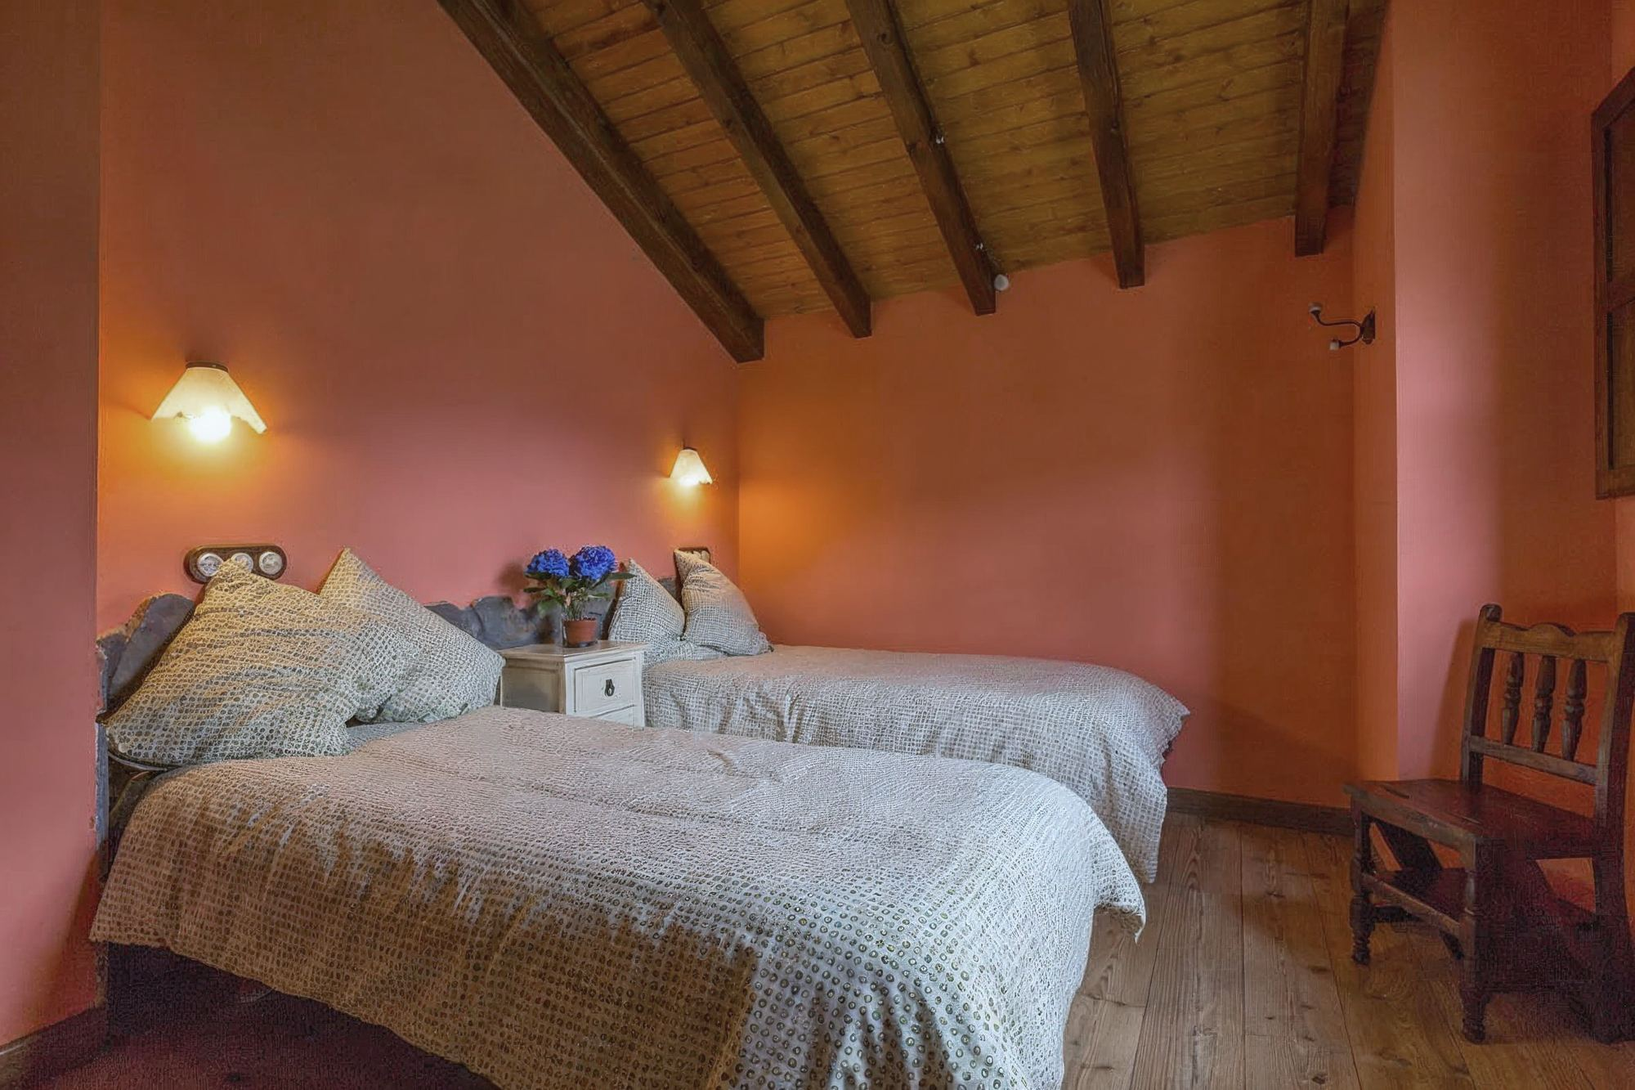
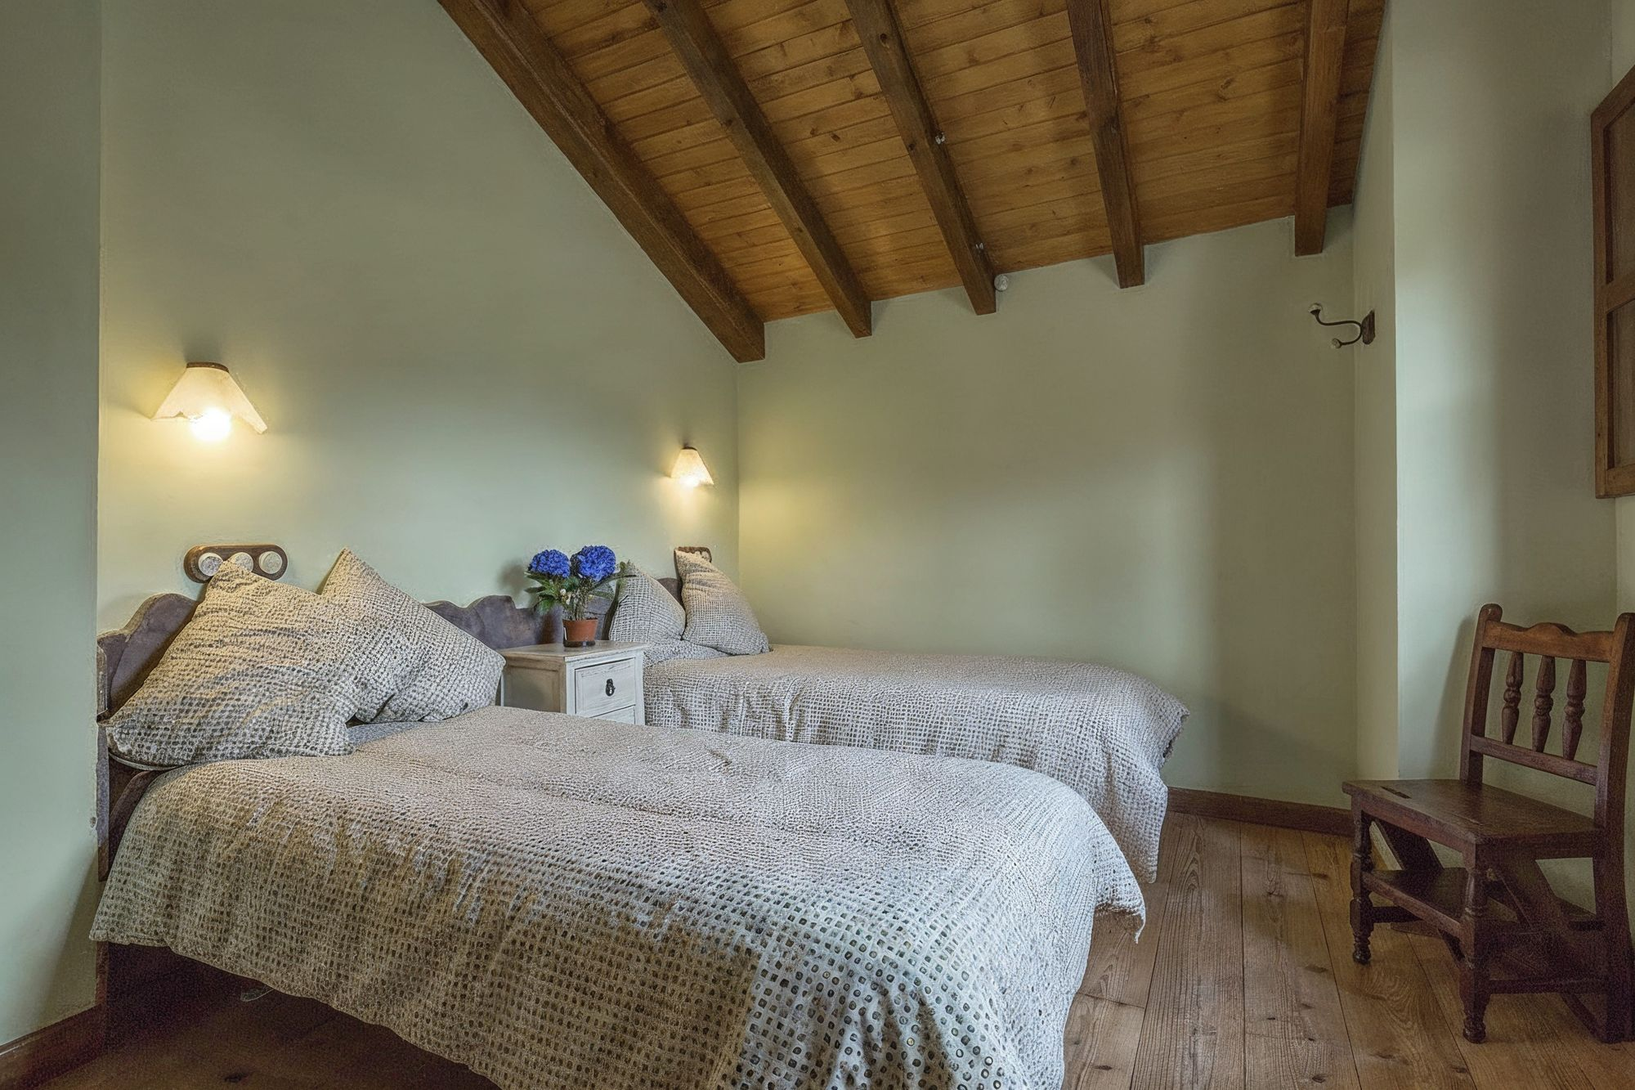
Cambios del cliente: colores de pared, objetos retirados, capacidades y fotos del jardín
- Paredes en tonos muy claros por casa (Piedrafita verde, La Laguna azul grisáceo,
  Coto Bello beige) y blanco sobre los azulejos de los baños.
- Quitados jabones, cestas, botella de sidra, cenicero y comida de la cocina.
- Capacidades: La Laguna 5, Coto Bello 7. Finca de más de 4.000 m².
- Fuera del equipamiento: fuente propia y diana de tiro con arco.
- Bloque de fotos del jardín en las fichas.
- Rutas de las herramientas actualizadas a ~/Proyectos.

diff --git a/web/casa-ii.html b/web/casa-ii.html
@@ -4,7 +4,7 @@
   <meta charset="utf-8">
   <meta name="viewport" content="width=device-width, initial-scale=1">
   <title>La Laguna (Casa II) | El Mirador de Llananzanes</title>
-  <meta name="description" content="La Laguna: casa rural de 90 m² para hasta 7 personas en Llananzanes, Aller (Asturias). Dos habitaciones, dos baños, estufa de leña y vistas a los valles.">
+  <meta name="description" content="La Laguna: casa rural de 90 m² para hasta 5 personas en Llananzanes, Aller (Asturias). Dos habitaciones, dos baños, estufa de leña y vistas a los valles.">
   <meta name="robots" content="noindex">
   <meta name="theme-color" content="#15201a">
   <link rel="icon" href="assets/img/El-Mirador-de-Llananzanes-favicon.png">
@@ -77,7 +77,7 @@
       </div>
       <div class="hero__side">
         <ul class="cfacts">
-          <li><span>Capacidad</span>Hasta 7 personas</li>
+          <li><span>Capacidad</span>Hasta 5 personas</li>
           <li><span>Superficie</span>90 m² en dos plantas</li>
           <li><span>Habitaciones</span>2, de 20 m²</li>
           <li><span>Baños</span>2 completos</li>
@@ -95,9 +95,9 @@
     <div class="watermark" aria-hidden="true"></div>
     <section class="cintro">
       <div class="wrap">
-        <h2 class="reveal">Espacio para siete, <em>con la estufa encendida.</em></h2>
+        <h2 class="reveal">Espacio para cinco, <em>con la estufa encendida.</em></h2>
         <div class="reveal" style="--d:.1s">
-          <p>Dos plantas con techos abovedados de madera y grandes ventanales a las montañas, los valles y el bosque de castaños. Un salón amplio alrededor de la estufa de leña y sitio para siete.</p>
+          <p>Dos plantas con techos abovedados de madera y grandes ventanales a las montañas, los valles y el bosque de castaños. Un salón amplio alrededor de la estufa de leña y sitio para cinco.</p>
         </div>
       </div>
     </section>
@@ -172,7 +172,7 @@
     <div class="wrap">
       <div class="reveal">
         <h2 id="equip-t">Llegar y <em>no echar nada en falta.</em></h2>
-        <p class="equip__lead">La casa está equipada por completo. Fuera, una finca de más de 3.000 m² compartida entre las tres casas.</p>
+        <p class="equip__lead">La casa está equipada por completo. Fuera, una finca de más de 4.000 m² compartida entre las tres casas.</p>
       </div>
       <div class="equip__cols reveal" style="--d:.1s">
         <div>
@@ -193,12 +193,19 @@
             <li>Aparcamiento privado</li>
             <li>Zona de barbacoa</li>
             <li>Zonas verdes y bancos</li>
-            <li>Fuente propia</li>
-            <li>Diana de tiro con arco</li>
             <li>Rutas desde la puerta</li>
           </ul>
         </div>
       </div>
+    </div>
+  </section>
+
+  <!-- La finca: fotos del jardín -->
+  <section class="finca tone-night" aria-label="La finca">
+    <div class="wrap finca__grid">
+      <figure class="fig finca__a reveal"><div class="fig__img"><img src="assets/img/jardin-mesa-larga.jpg" alt="Jardín de la finca con mesa larga y bancos de madera junto a los postes de roble" loading="lazy"></div><figcaption><b>La finca</b><span>Mesa de madera junto al bosque</span></figcaption></figure>
+      <figure class="fig finca__b reveal" style="--d:.1s"><div class="fig__img"><img src="assets/img/jardin-mesa-vertical.jpg" alt="Mesa de piedra y bancos de tronco frente al valle de Aller" loading="lazy"></div><figcaption><b>El mirador</b><span>Frente al valle</span></figcaption></figure>
+      <figure class="fig finca__c reveal"><div class="fig__img"><img src="assets/img/jardin-mesa-horizontal.jpg" alt="Rincón del jardín con mesa de piedra y valla de madera, con las montañas al fondo" loading="lazy"></div><figcaption><b>Zonas verdes</b><span>Más de 4.000 m²</span></figcaption></figure>
     </div>
   </section>
 
@@ -238,7 +245,7 @@
             <h3>Coto Bello</h3>
             <a class="link-arrow house__link" href="casa-iii.html">Ver Coto Bello <svg class="icon" aria-hidden="true"><use href="assets/icons/sprite.svg#arrow-up-right"/></svg></a>
             <ul>
-              <li><svg class="icon" aria-hidden="true"><use href="assets/icons/sprite.svg#users"/></svg>Hasta 9 personas</li>
+              <li><svg class="icon" aria-hidden="true"><use href="assets/icons/sprite.svg#users"/></svg>Hasta 7 personas</li>
               <li>90 m²</li>
             </ul>
           </div>

diff --git a/web/casa-iii.html b/web/casa-iii.html
@@ -4,7 +4,7 @@
   <meta charset="utf-8">
   <meta name="viewport" content="width=device-width, initial-scale=1">
   <title>Coto Bello (Casa III) | El Mirador de Llananzanes</title>
-  <meta name="description" content="Coto Bello: casa rural de 90 m² para hasta 9 personas en Llananzanes, Aller (Asturias). Dos habitaciones, dos baños, estufa de leña y vistas a los valles.">
+  <meta name="description" content="Coto Bello: casa rural de 90 m² para hasta 7 personas en Llananzanes, Aller (Asturias). Dos habitaciones, dos baños, estufa de leña y vistas a los valles.">
   <meta name="robots" content="noindex">
   <meta name="theme-color" content="#15201a">
   <link rel="icon" href="assets/img/El-Mirador-de-Llananzanes-favicon.png">
@@ -77,7 +77,7 @@
       </div>
       <div class="hero__side">
         <ul class="cfacts">
-          <li><span>Capacidad</span>Hasta 9 personas</li>
+          <li><span>Capacidad</span>Hasta 7 personas</li>
           <li><span>Superficie</span>90 m² en dos plantas</li>
           <li><span>Habitaciones</span>2, de 20 m²</li>
           <li><span>Baños</span>2 completos</li>
@@ -97,7 +97,7 @@
       <div class="wrap">
         <h2 class="reveal">Un balcón <em>sobre los valles asturianos.</em></h2>
         <div class="reveal" style="--d:.1s">
-          <p>Dos plantas con techos abovedados de madera y grandes ventanales a las montañas, los valles y el bosque de castaños. La más capaz de las tres: sitio para nueve alrededor de la estufa.</p>
+          <p>Dos plantas con techos abovedados de madera y grandes ventanales a las montañas, los valles y el bosque de castaños. Un salón comedor abierto a la cocina y sitio para siete alrededor de la estufa.</p>
         </div>
       </div>
     </section>
@@ -172,7 +172,7 @@
     <div class="wrap">
       <div class="reveal">
         <h2 id="equip-t">Llegar y <em>no echar nada en falta.</em></h2>
-        <p class="equip__lead">La casa está equipada por completo. Fuera, una finca de más de 3.000 m² compartida entre las tres casas.</p>
+        <p class="equip__lead">La casa está equipada por completo. Fuera, una finca de más de 4.000 m² compartida entre las tres casas.</p>
       </div>
       <div class="equip__cols reveal" style="--d:.1s">
         <div>
@@ -193,12 +193,19 @@
             <li>Aparcamiento privado</li>
             <li>Zona de barbacoa</li>
             <li>Zonas verdes y bancos</li>
-            <li>Fuente propia</li>
-            <li>Diana de tiro con arco</li>
             <li>Rutas desde la puerta</li>
           </ul>
         </div>
       </div>
+    </div>
+  </section>
+
+  <!-- La finca: fotos del jardín -->
+  <section class="finca tone-night" aria-label="La finca">
+    <div class="wrap finca__grid">
+      <figure class="fig finca__a reveal"><div class="fig__img"><img src="assets/img/jardin-mesa-larga.jpg" alt="Jardín de la finca con mesa larga y bancos de madera junto a los postes de roble" loading="lazy"></div><figcaption><b>La finca</b><span>Mesa de madera junto al bosque</span></figcaption></figure>
+      <figure class="fig finca__b reveal" style="--d:.1s"><div class="fig__img"><img src="assets/img/jardin-mesa-vertical.jpg" alt="Mesa de piedra y bancos de tronco frente al valle de Aller" loading="lazy"></div><figcaption><b>El mirador</b><span>Frente al valle</span></figcaption></figure>
+      <figure class="fig finca__c reveal"><div class="fig__img"><img src="assets/img/jardin-mesa-horizontal.jpg" alt="Rincón del jardín con mesa de piedra y valla de madera, con las montañas al fondo" loading="lazy"></div><figcaption><b>Zonas verdes</b><span>Más de 4.000 m²</span></figcaption></figure>
     </div>
   </section>
 
@@ -238,7 +245,7 @@
             <h3>La Laguna</h3>
             <a class="link-arrow house__link" href="casa-ii.html">Ver La Laguna <svg class="icon" aria-hidden="true"><use href="assets/icons/sprite.svg#arrow-up-right"/></svg></a>
             <ul>
-              <li><svg class="icon" aria-hidden="true"><use href="assets/icons/sprite.svg#users"/></svg>Hasta 7 personas</li>
+              <li><svg class="icon" aria-hidden="true"><use href="assets/icons/sprite.svg#users"/></svg>Hasta 5 personas</li>
               <li>90 m²</li>
             </ul>
           </div>

diff --git a/web/casa-i.html b/web/casa-i.html
@@ -172,7 +172,7 @@
     <div class="wrap">
       <div class="reveal">
         <h2 id="equip-t">Llegar y <em>no echar nada en falta.</em></h2>
-        <p class="equip__lead">La casa está equipada por completo. Fuera, una finca de más de 3.000 m² compartida entre las tres casas.</p>
+        <p class="equip__lead">La casa está equipada por completo. Fuera, una finca de más de 4.000 m² compartida entre las tres casas.</p>
       </div>
       <div class="equip__cols reveal" style="--d:.1s">
         <div>
@@ -193,12 +193,19 @@
             <li>Aparcamiento privado</li>
             <li>Zona de barbacoa</li>
             <li>Zonas verdes y bancos</li>
-            <li>Fuente propia</li>
-            <li>Diana de tiro con arco</li>
             <li>Rutas desde la puerta</li>
           </ul>
         </div>
       </div>
+    </div>
+  </section>
+
+  <!-- La finca: fotos del jardín -->
+  <section class="finca tone-night" aria-label="La finca">
+    <div class="wrap finca__grid">
+      <figure class="fig finca__a reveal"><div class="fig__img"><img src="assets/img/jardin-mesa-larga.jpg" alt="Jardín de la finca con mesa larga y bancos de madera junto a los postes de roble" loading="lazy"></div><figcaption><b>La finca</b><span>Mesa de madera junto al bosque</span></figcaption></figure>
+      <figure class="fig finca__b reveal" style="--d:.1s"><div class="fig__img"><img src="assets/img/jardin-mesa-vertical.jpg" alt="Mesa de piedra y bancos de tronco frente al valle de Aller" loading="lazy"></div><figcaption><b>El mirador</b><span>Frente al valle</span></figcaption></figure>
+      <figure class="fig finca__c reveal"><div class="fig__img"><img src="assets/img/jardin-mesa-horizontal.jpg" alt="Rincón del jardín con mesa de piedra y valla de madera, con las montañas al fondo" loading="lazy"></div><figcaption><b>Zonas verdes</b><span>Más de 4.000 m²</span></figcaption></figure>
     </div>
   </section>
 
@@ -227,7 +234,7 @@
             <h3>La Laguna</h3>
             <a class="link-arrow house__link" href="casa-ii.html">Ver La Laguna <svg class="icon" aria-hidden="true"><use href="assets/icons/sprite.svg#arrow-up-right"/></svg></a>
             <ul>
-              <li><svg class="icon" aria-hidden="true"><use href="assets/icons/sprite.svg#users"/></svg>Hasta 7 personas</li>
+              <li><svg class="icon" aria-hidden="true"><use href="assets/icons/sprite.svg#users"/></svg>Hasta 5 personas</li>
               <li>90 m²</li>
             </ul>
           </div>
@@ -238,7 +245,7 @@
             <h3>Coto Bello</h3>
             <a class="link-arrow house__link" href="casa-iii.html">Ver Coto Bello <svg class="icon" aria-hidden="true"><use href="assets/icons/sprite.svg#arrow-up-right"/></svg></a>
             <ul>
-              <li><svg class="icon" aria-hidden="true"><use href="assets/icons/sprite.svg#users"/></svg>Hasta 9 personas</li>
+              <li><svg class="icon" aria-hidden="true"><use href="assets/icons/sprite.svg#users"/></svg>Hasta 7 personas</li>
               <li>90 m²</li>
             </ul>
           </div>

diff --git a/web/index.html b/web/index.html
@@ -167,7 +167,7 @@
           <div class="house__meta">
             <h3>La Laguna</h3>
             <ul>
-              <li><svg class="icon" aria-hidden="true"><use href="assets/icons/sprite.svg#users"/></svg>Hasta 7 personas</li>
+              <li><svg class="icon" aria-hidden="true"><use href="assets/icons/sprite.svg#users"/></svg>Hasta 5 personas</li>
               <li>90 m²</li>
             </ul>
             <a class="link-arrow house__link" href="casa-ii.html">Ver La Laguna <svg class="icon" aria-hidden="true"><use href="assets/icons/sprite.svg#arrow-up-right"/></svg></a>
@@ -179,7 +179,7 @@
           <div class="house__meta">
             <h3>Coto Bello</h3>
             <ul>
-              <li><svg class="icon" aria-hidden="true"><use href="assets/icons/sprite.svg#users"/></svg>Hasta 9 personas</li>
+              <li><svg class="icon" aria-hidden="true"><use href="assets/icons/sprite.svg#users"/></svg>Hasta 7 personas</li>
               <li>90 m²</li>
             </ul>
             <a class="link-arrow house__link" href="casa-iii.html">Ver Coto Bello <svg class="icon" aria-hidden="true"><use href="assets/icons/sprite.svg#arrow-up-right"/></svg></a>

diff --git a/web/assets/styles.css b/web/assets/styles.css
@@ -504,3 +504,16 @@ html.flat .house__meta h3 { font-size: 64px; }
 }
 .hero--casa .hero__media::after { background: linear-gradient(180deg, rgba(8, 12, 10, .5) 0%, rgba(8, 12, 10, 0) 28%, rgba(8, 12, 10, .25) 50%, rgba(8, 12, 10, .88) 100%), linear-gradient(270deg, rgba(8, 12, 10, .72) 0%, rgba(8, 12, 10, 0) 46%); }
 .cta--casa h2 { max-width: none; } .cta--casa h2 em { display: block; white-space: nowrap; }
+
+/* Fotos de la finca (fichas de casa) */
+.finca { padding: 0 0 clamp(88px, 11vw, 170px); }
+.finca__grid { display: grid; grid-template-columns: 7fr 5fr; gap: clamp(28px, 3vw, 44px) clamp(12px, 1.6vw, 24px); }
+.finca__a .fig__img, .finca__c .fig__img { aspect-ratio: 3 / 2; }
+.finca__b { grid-column: 2; grid-row: 1 / span 2; }
+.finca__b .fig__img { flex: 1; min-height: 0; }
+.finca__b .fig__img img { position: absolute; inset: 0; }
+@media (max-width: 900px) {
+  .finca__grid { grid-template-columns: 1fr; }
+  .finca__b { grid-column: 1; grid-row: auto; }
+  .finca__b .fig__img { flex: none; aspect-ratio: 4 / 5; }
+}

diff --git a/_tools/pdf.js b/_tools/pdf.js
@@ -8,7 +8,7 @@ const p=require('puppeteer-core');
  await pg.emulateMediaFeatures([{name:'prefers-color-scheme',value:'light'}]);
  await pg.goto('http://localhost:4320/?flat',{waitUntil:'networkidle0'});
  // fuentes estáticas (pesos fijos) para que el PDF lleve fuentes reales y el texto sea editable en Illustrator
- const fs=require('fs'), FD=require('os').homedir()+'/Downloads/llananzanes/export/fuentes/';
+ const fs=require('fs'), FD=require('os').homedir()+'/Proyectos/llananzanes/export/fuentes/';
  const face=(fam,file,w,st)=>`@font-face{font-family:"${fam}";src:url(data:font/ttf;base64,${fs.readFileSync(FD+file).toString('base64')}) format("truetype");font-weight:${w};font-style:${st};}`;
  await pg.addStyleTag({content:[
    face('CG Static','CormorantGaramond-Medium.ttf',500,'normal'),face('CG Static','CormorantGaramond-SemiBold.ttf',600,'normal'),face('CG Static','CormorantGaramond-MediumItalic.ttf',500,'italic'),

diff --git a/_tools/casas.py b/_tools/casas.py
@@ -2,7 +2,7 @@
 """Genera las fichas de las tres casas (web/casa-i.html, casa-ii.html, casa-iii.html)
 a partir de una plantilla común. Para cambiar textos o fotos, editar CASAS y volver a ejecutar."""
 import os
-WEB = os.path.expanduser("~/Downloads/llananzanes/web")
+WEB = os.path.join(os.path.dirname(os.path.dirname(os.path.abspath(__file__))), "web")
 RESERVA = "https://bookonline.pro/es/property/405750"
 VIDEO = "https://www.rural-llananzanes.com/wp-content/uploads/2026/06/casa-{n}-video.mp4"
 
@@ -19,9 +19,9 @@ CASAS = {
                 ("casa-i-planta-arriba-habitacion-2", "Habitación doble", "Dos camas, 20 m²", "Habitación de Piedrafita con dos camas individuales y pared color teja")],
     ),
     "ii": dict(
-        nombre="La Laguna", num="Casa II", personas=7,
-        titular="Espacio para siete, <em>con la estufa encendida.</em>",
-        intro="Dos plantas con techos abovedados de madera y grandes ventanales a las montañas, los valles y el bosque de castaños. Un salón amplio alrededor de la estufa de leña y sitio para siete.",
+        nombre="La Laguna", num="Casa II", personas=5,
+        titular="Espacio para cinco, <em>con la estufa encendida.</em>",
+        intro="Dos plantas con techos abovedados de madera y grandes ventanales a las montañas, los valles y el bosque de castaños. Un salón amplio alrededor de la estufa de leña y sitio para cinco.",
         baja=[("casa-ii-planta-baja-salon-comedor", "Salón comedor", "Con estufa de leña", "Salón comedor de La Laguna con estufa de leña y escalera de madera"),
               ("casa-ii-planta-baja-bano", "Baño", "Completo, con ducha", "Baño de la planta baja de La Laguna con lavabo redondo sobre encimera de madera"),
               ("casa-ii-planta-baja-cocina", "Cocina", "Totalmente equipada", "Cocina de La Laguna con encimera de granito, vitrocerámica y lavadora")],
@@ -30,9 +30,9 @@ CASAS = {
                 ("casa-ii-planta-arriba-habitacion-2", "Habitación doble", "Dos camas, 20 m²", "Habitación de La Laguna con dos camas individuales y ventanal al bosque")],
     ),
     "iii": dict(
-        nombre="Coto Bello", num="Casa III", personas=9,
+        nombre="Coto Bello", num="Casa III", personas=7,
         titular="Un balcón <em>sobre los valles asturianos.</em>",
-        intro="Dos plantas con techos abovedados de madera y grandes ventanales a las montañas, los valles y el bosque de castaños. La más capaz de las tres: sitio para nueve alrededor de la estufa.",
+        intro="Dos plantas con techos abovedados de madera y grandes ventanales a las montañas, los valles y el bosque de castaños. Un salón comedor abierto a la cocina y sitio para siete alrededor de la estufa.",
         baja=[("casa-iii-planta-baja-salon-comedor", "Salón comedor", "Con estufa de leña", "Salón comedor de Coto Bello con la estufa de leña encendida"),
               ("casa-iii-planta-baja-bano", "Baño", "Completo, con ducha", "Baño de la planta baja de Coto Bello con azulejo rojo y lavabo redondo"),
               ("casa-iii-planta-baja-salon-cocina", "Cocina", "Abierta al salón", "Cocina de Coto Bello con muro de piedra y ventana al valle")],
@@ -223,7 +223,7 @@ def pagina(n):
     <div class="wrap">
       <div class="reveal">
         <h2 id="equip-t">Llegar y <em>no echar nada en falta.</em></h2>
-        <p class="equip__lead">La casa está equipada por completo. Fuera, una finca de más de 3.000 m² compartida entre las tres casas.</p>
+        <p class="equip__lead">La casa está equipada por completo. Fuera, una finca de más de 4.000 m² compartida entre las tres casas.</p>
       </div>
       <div class="equip__cols reveal" style="--d:.1s">
         <div>
@@ -244,12 +244,19 @@ def pagina(n):
             <li>Aparcamiento privado</li>
             <li>Zona de barbacoa</li>
             <li>Zonas verdes y bancos</li>
-            <li>Fuente propia</li>
-            <li>Diana de tiro con arco</li>
             <li>Rutas desde la puerta</li>
           </ul>
         </div>
       </div>
+    </div>
+  </section>
+
+  <!-- La finca: fotos del jardín -->
+  <section class="finca tone-night" aria-label="La finca">
+    <div class="wrap finca__grid">
+      <figure class="fig finca__a reveal"><div class="fig__img"><img src="assets/img/jardin-mesa-larga.jpg" alt="Jardín de la finca con mesa larga y bancos de madera junto a los postes de roble" loading="lazy"></div><figcaption><b>La finca</b><span>Mesa de madera junto al bosque</span></figcaption></figure>
+      <figure class="fig finca__b reveal" style="--d:.1s"><div class="fig__img"><img src="assets/img/jardin-mesa-vertical.jpg" alt="Mesa de piedra y bancos de tronco frente al valle de Aller" loading="lazy"></div><figcaption><b>El mirador</b><span>Frente al valle</span></figcaption></figure>
+      <figure class="fig finca__c reveal"><div class="fig__img"><img src="assets/img/jardin-mesa-horizontal.jpg" alt="Rincón del jardín con mesa de piedra y valla de madera, con las montañas al fondo" loading="lazy"></div><figcaption><b>Zonas verdes</b><span>Más de 4.000 m²</span></figcaption></figure>
     </div>
   </section>
 

diff --git a/_tools/baja_saludos.py b/_tools/baja_saludos.py
@@ -3,8 +3,8 @@
 Uso: baja_saludos.py  (lee pares "identificador url" por la entrada estándar)
 Usa tanda/ids.txt (clave identificador) para saber a qué nombre corresponde cada identificador."""
 import sys, os, subprocess, urllib.request
-T = os.path.expanduser("~/Downloads/llananzanes/_gen/audio/saludos/tanda")
-TOOL = os.path.expanduser("~/Downloads/llananzanes/_tools/saludo.py")
+T = os.path.expanduser("~/Proyectos/llananzanes/_gen/audio/saludos/tanda")
+TOOL = os.path.expanduser("~/Proyectos/llananzanes/_tools/saludo.py")
 key = {}
 for l in open(f"{T}/ids.txt"):
     if l.strip(): k, i = l.split(); key[i] = k

diff --git a/_tools/baja_ortega.py b/_tools/baja_ortega.py
@@ -3,8 +3,8 @@
 Uso: baja_ortega.py <ids.txt>   (lee pares "identificador url" por la entrada estándar;
 ids.txt tiene líneas "clave identificador")"""
 import sys, os, subprocess, urllib.request
-T = os.path.expanduser("~/Downloads/llananzanes/_gen/audio/ortega")
-TOOL = os.path.expanduser("~/Downloads/llananzanes/_tools/saludo.py")
+T = os.path.expanduser("~/Proyectos/llananzanes/_gen/audio/ortega")
+TOOL = os.path.expanduser("~/Proyectos/llananzanes/_tools/saludo.py")
 key = {}
 for l in open(sys.argv[1]):
     if l.strip(): k, i = l.split(); key[i] = k

diff --git a/_tools/instala_saludos.py b/_tools/instala_saludos.py
@@ -5,7 +5,7 @@ termine justo cuando arranca la locución, y se regenera saludos/index.json.
 Uso: instala_saludos.py [carpeta_ok] [--pisar]
 Sin --pisar no toca los saludos que ya están en la web."""
 import json, os, re, subprocess, sys
-R = os.path.expanduser("~/Downloads/llananzanes")
+R = os.path.expanduser("~/Proyectos/llananzanes")
 args = [a for a in sys.argv[1:] if not a.startswith("--")]
 PISAR = "--pisar" in sys.argv
 OK, WEB = (os.path.abspath(args[0]) if args else f"{R}/_gen/audio/saludos/tanda/ok"), f"{R}/web/assets/audio/saludos"

diff --git a/_tools/revisa_saludos.py b/_tools/revisa_saludos.py
@@ -3,7 +3,7 @@
 Uso: vid/bin/python revisa_saludos.py [clave ...]   (sin claves: todos)"""
 import json, os, sys, unicodedata, difflib
 from faster_whisper import WhisperModel
-R = os.path.expanduser("~/Downloads/llananzanes")
+R = os.path.expanduser("~/Proyectos/llananzanes")
 WEB = f"{R}/web/assets/audio/saludos"
 nombres = json.load(open(f"{R}/_gen/audio/saludos/nombres.json"))
 plano = lambda t: "".join(c for c in unicodedata.normalize("NFD", t.lower()) if c.isalpha())
